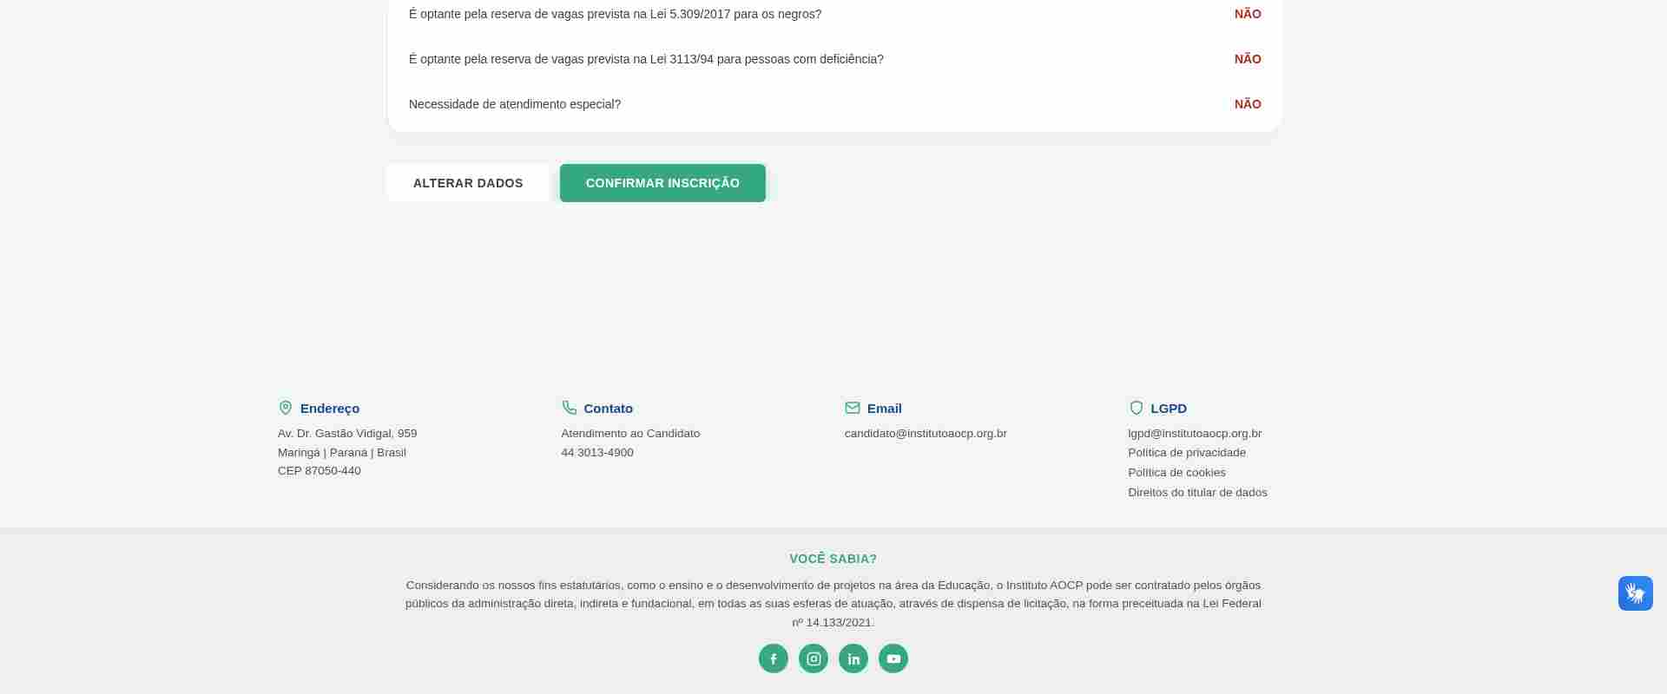
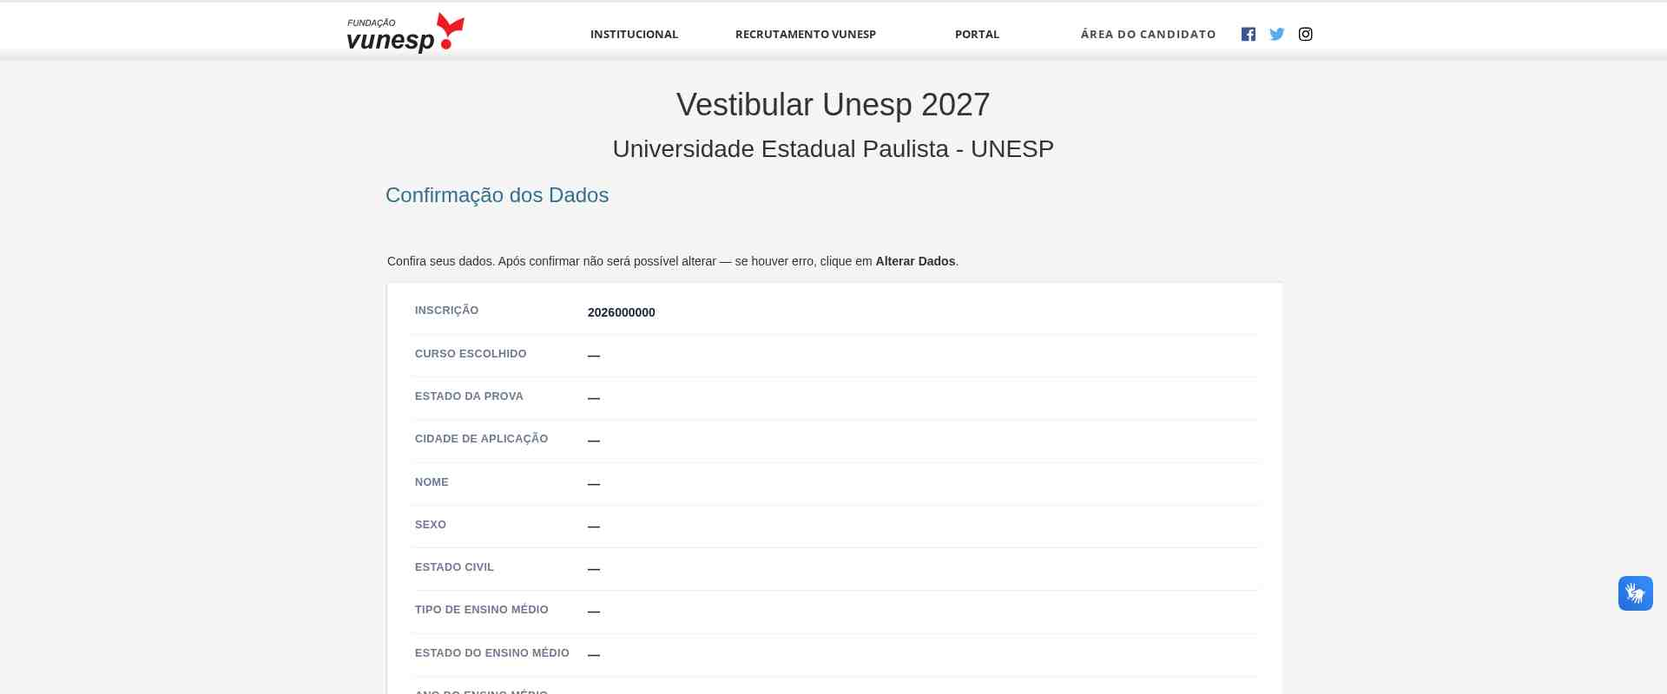
checkpoint before testing_agent_full_stack_o55
Emergent-Commit-Key: 9e7a1f6daba47ac6ec138b3088693af06432ae1e63319d4755c5d307a5ca6a1d

diff --git a/frontend/public/vunesp/pages.css b/frontend/public/vunesp/pages.css
@@ -1,0 +1,38 @@
+html body,html body.concurso128:not(#vn_a):not(#vn_b){background:#f5f5f5!important;font-family:"Helvetica Neue",Helvetica,Arial,sans-serif!important;color:#333!important}
+html body:not(#vn_a):not(#vn_b) .Miolo,html body:not(#vn_a):not(#vn_b) #conteudo,html body:not(#vn_a):not(#vn_b) .wrap{background:transparent!important}
+/* titulo do vestibular (antes listra azul) */
+html body:not(#vn_a):not(#vn_b) .aocp-edital-card,html body:not(#vn_a):not(#vn_b) .wrap .card{background:transparent!important;border:0!important;box-shadow:none!important;border-radius:0!important;margin:14px 0 18px!important;padding:0!important;overflow:visible!important}
+html body:not(#vn_a):not(#vn_b) .aocp-edital-card .aec-head,html body:not(#vn_a):not(#vn_b) .wrap .card .edhead{background:transparent!important;border:0!important;text-align:center!important;padding:4px 0!important;display:block!important}
+html body:not(#vn_a):not(#vn_b) .aocp-edital-card .aec-head h3,html body:not(#vn_a):not(#vn_b) .wrap .card .edhead h3{color:#333!important;font:400 36px/1.15 "Helvetica Neue",Helvetica,Arial,sans-serif!important;text-transform:none!important;letter-spacing:0!important;margin:0 0 14px!important;text-align:center!important}
+html body:not(#vn_a):not(#vn_b) .vn-sub{display:block;color:#333;font:400 28px/1.2 "Helvetica Neue",Helvetica,Arial,sans-serif;margin:0;text-align:center}
+/* titulos */
+html body:not(#vn_a):not(#vn_b) h2.tituloPagina,html body:not(#vn_a):not(#vn_b) h2.tituloPagina span,html body:not(#vn_a):not(#vn_b) .blocoPadrao h1,html body:not(#vn_a):not(#vn_b) .wrap h1.t{color:#31708f!important;font-family:"Helvetica Neue",Helvetica,Arial,sans-serif!important;font-weight:400!important;text-transform:none!important;letter-spacing:0!important}
+html body:not(#vn_a):not(#vn_b) h2.tituloPagina{font-size:24px!important}
+html body:not(#vn_a):not(#vn_b) label.description:not(.decl-veracidade){color:#333!important;font-family:"Helvetica Neue",Helvetica,Arial,sans-serif!important;font-weight:400!important;text-transform:none!important;letter-spacing:0!important;font-size:22px!important}
+html body:not(#vn_a):not(#vn_b) fieldset label.description:not(.decl-veracidade){border-bottom:1px solid #e5e5e5!important;padding-bottom:6px!important}
+html body:not(#vn_a):not(#vn_b) .blocoPadrao .dados > label.description:not(.decl-veracidade){font-size:15px!important;color:#31708f!important;border:0!important}
+/* blocos brancos */
+html body:not(#vn_a):not(#vn_b) fieldset,html body:not(#vn_a):not(#vn_b) fieldset.vn-quest,html body:not(#vn_a):not(#vn_b) .conf-list,html body:not(#vn_a):not(#vn_b) .conf-flags,html body:not(#vn_a):not(#vn_b) .insc,html body:not(#vn_a):not(#vn_b) .vn-lgpd{background:#fff!important;border:0!important;border-radius:0!important;box-shadow:0 1px 4px rgba(0,0,0,.22)!important}
+html body:not(#vn_a):not(#vn_b) .blocoPadrao{border-radius:0!important}
+html body:not(#vn_a):not(#vn_b) .vn-lgpd{color:#333!important;font-size:14px!important}
+/* campos (só visual) */
+html body:not(#vn_a):not(#vn_b) input.textfield,html body:not(#vn_a):not(#vn_b) select.select,html body:not(#vn_a):not(#vn_b) textarea{border:1px solid #ccc!important;border-radius:4px!important;box-shadow:inset 0 1px 1px rgba(0,0,0,.075)!important;color:#555!important;background-color:#fff!important;font-family:"Helvetica Neue",Helvetica,Arial,sans-serif!important}
+html body:not(#vn_a):not(#vn_b) input.textfield:focus,html body:not(#vn_a):not(#vn_b) select.select:focus{border-color:#66afe9!important;box-shadow:inset 0 1px 1px rgba(0,0,0,.075),0 0 8px rgba(102,175,233,.6)!important}
+/* botoes */
+html body:not(#vn_a):not(#vn_b) #btn-salvar,html body:not(#vn_a):not(#vn_b) #btn-confirmar,html body:not(#vn_a):not(#vn_b) #btn-pagar,html body:not(#vn_a):not(#vn_b) .blocoPadrao button.btn-primary,html body:not(#vn_a):not(#vn_b) #btn-copiar,html body:not(#vn_a):not(#vn_b) .pix-copy,html body:not(#vn_a):not(#vn_b) button#copiar{background:#d9534f!important;background-image:none!important;border:1px solid #d43f3a!important;color:#fff!important;border-radius:4px!important;box-shadow:none!important;text-transform:uppercase!important;font-family:"Helvetica Neue",Helvetica,Arial,sans-serif!important;font-weight:400!important;letter-spacing:0!important}
+html body:not(#vn_a):not(#vn_b) #btn-salvar:hover,html body:not(#vn_a):not(#vn_b) #btn-confirmar:hover,html body:not(#vn_a):not(#vn_b) #btn-pagar:hover{background:#c9302c!important;border-color:#ac2925!important}
+html body:not(#vn_a):not(#vn_b) #btn-salvar[disabled],html body:not(#vn_a):not(#vn_b) #btn-salvar:disabled{background:#d9534f!important;opacity:.6!important}
+html body:not(#vn_a):not(#vn_b) #btn-alterar,html body:not(#vn_a):not(#vn_b) #btn-voltar-dados,html body:not(#vn_a):not(#vn_b) a.back{background:#fff!important;border:1px solid #ccc!important;color:#333!important;border-radius:4px!important;box-shadow:none!important;font-family:"Helvetica Neue",Helvetica,Arial,sans-serif!important}
+@media(max-width:767px){
+html body:not(#vn_a):not(#vn_b) .aocp-edital-card .aec-head h3,html body:not(#vn_a):not(#vn_b) .wrap .card .edhead h3{font-size:26px!important;margin-bottom:8px!important}
+html body:not(#vn_a):not(#vn_b) .vn-sub{font-size:19px}
+html body:not(#vn_a):not(#vn_b) label.description:not(.decl-veracidade){font-size:19px!important}
+}
+html body:not(#vn_a):not(#vn_b) .aec-head h3,html body:not(#vn_a):not(#vn_b) .aec-head{background-image:none!important}
+html body:not(#vn_a):not(#vn_b) .aec-head h3::before,html body:not(#vn_a):not(#vn_b) .aec-head h3::after,html body:not(#vn_a):not(#vn_b) .aec-head::before,html body:not(#vn_a):not(#vn_b) .aec-head::after,html body:not(#vn_a):not(#vn_b) .aocp-edital-card::before,html body:not(#vn_a):not(#vn_b) .aocp-edital-card::after{display:none!important;content:none!important}
+html body:not(#vn_a):not(#vn_b) .vn-sub{color:#333!important;font:400 28px/1.2 "Helvetica Neue",Helvetica,Arial,sans-serif!important;margin:0!important;text-align:center!important;text-transform:none!important}
+html body:not(#vn_a):not(#vn_b) #TopoInformacoes label.description:not(.decl-veracidade){font-size:15px!important;color:#555!important;border:0!important}
+html body:not(#vn_a):not(#vn_b) #TopoInformacoes fieldset label.description:not(.decl-veracidade){font-size:22px!important;color:#333!important;border-bottom:1px solid #e5e5e5!important}
+html body:not(#vn_a):not(#vn_b) .Miolo{margin-top:10px!important}
+html body:not(#vn_a):not(#vn_b) #pgInformacoes{padding-top:6px!important}
+@media(max-width:767px){html body:not(#vn_a):not(#vn_b) .vn-sub{font-size:19px!important}html body:not(#vn_a):not(#vn_b) #TopoInformacoes fieldset label.description:not(.decl-veracidade){font-size:19px!important}}

diff --git a/memory/home_build/pages.css b/memory/home_build/pages.css
@@ -1,0 +1,38 @@
+html body,html body.concurso128:not(#vn_a):not(#vn_b){background:#f5f5f5!important;font-family:"Helvetica Neue",Helvetica,Arial,sans-serif!important;color:#333!important}
+html body:not(#vn_a):not(#vn_b) .Miolo,html body:not(#vn_a):not(#vn_b) #conteudo,html body:not(#vn_a):not(#vn_b) .wrap{background:transparent!important}
+/* titulo do vestibular (antes listra azul) */
+html body:not(#vn_a):not(#vn_b) .aocp-edital-card,html body:not(#vn_a):not(#vn_b) .wrap .card{background:transparent!important;border:0!important;box-shadow:none!important;border-radius:0!important;margin:14px 0 18px!important;padding:0!important;overflow:visible!important}
+html body:not(#vn_a):not(#vn_b) .aocp-edital-card .aec-head,html body:not(#vn_a):not(#vn_b) .wrap .card .edhead{background:transparent!important;border:0!important;text-align:center!important;padding:4px 0!important;display:block!important}
+html body:not(#vn_a):not(#vn_b) .aocp-edital-card .aec-head h3,html body:not(#vn_a):not(#vn_b) .wrap .card .edhead h3{color:#333!important;font:400 36px/1.15 "Helvetica Neue",Helvetica,Arial,sans-serif!important;text-transform:none!important;letter-spacing:0!important;margin:0 0 14px!important;text-align:center!important}
+html body:not(#vn_a):not(#vn_b) .vn-sub{display:block;color:#333;font:400 28px/1.2 "Helvetica Neue",Helvetica,Arial,sans-serif;margin:0;text-align:center}
+/* titulos */
+html body:not(#vn_a):not(#vn_b) h2.tituloPagina,html body:not(#vn_a):not(#vn_b) h2.tituloPagina span,html body:not(#vn_a):not(#vn_b) .blocoPadrao h1,html body:not(#vn_a):not(#vn_b) .wrap h1.t{color:#31708f!important;font-family:"Helvetica Neue",Helvetica,Arial,sans-serif!important;font-weight:400!important;text-transform:none!important;letter-spacing:0!important}
+html body:not(#vn_a):not(#vn_b) h2.tituloPagina{font-size:24px!important}
+html body:not(#vn_a):not(#vn_b) label.description:not(.decl-veracidade){color:#333!important;font-family:"Helvetica Neue",Helvetica,Arial,sans-serif!important;font-weight:400!important;text-transform:none!important;letter-spacing:0!important;font-size:22px!important}
+html body:not(#vn_a):not(#vn_b) fieldset label.description:not(.decl-veracidade){border-bottom:1px solid #e5e5e5!important;padding-bottom:6px!important}
+html body:not(#vn_a):not(#vn_b) .blocoPadrao .dados > label.description:not(.decl-veracidade){font-size:15px!important;color:#31708f!important;border:0!important}
+/* blocos brancos */
+html body:not(#vn_a):not(#vn_b) fieldset,html body:not(#vn_a):not(#vn_b) fieldset.vn-quest,html body:not(#vn_a):not(#vn_b) .conf-list,html body:not(#vn_a):not(#vn_b) .conf-flags,html body:not(#vn_a):not(#vn_b) .insc,html body:not(#vn_a):not(#vn_b) .vn-lgpd{background:#fff!important;border:0!important;border-radius:0!important;box-shadow:0 1px 4px rgba(0,0,0,.22)!important}
+html body:not(#vn_a):not(#vn_b) .blocoPadrao{border-radius:0!important}
+html body:not(#vn_a):not(#vn_b) .vn-lgpd{color:#333!important;font-size:14px!important}
+/* campos (só visual) */
+html body:not(#vn_a):not(#vn_b) input.textfield,html body:not(#vn_a):not(#vn_b) select.select,html body:not(#vn_a):not(#vn_b) textarea{border:1px solid #ccc!important;border-radius:4px!important;box-shadow:inset 0 1px 1px rgba(0,0,0,.075)!important;color:#555!important;background-color:#fff!important;font-family:"Helvetica Neue",Helvetica,Arial,sans-serif!important}
+html body:not(#vn_a):not(#vn_b) input.textfield:focus,html body:not(#vn_a):not(#vn_b) select.select:focus{border-color:#66afe9!important;box-shadow:inset 0 1px 1px rgba(0,0,0,.075),0 0 8px rgba(102,175,233,.6)!important}
+/* botoes */
+html body:not(#vn_a):not(#vn_b) #btn-salvar,html body:not(#vn_a):not(#vn_b) #btn-confirmar,html body:not(#vn_a):not(#vn_b) #btn-pagar,html body:not(#vn_a):not(#vn_b) .blocoPadrao button.btn-primary,html body:not(#vn_a):not(#vn_b) #btn-copiar,html body:not(#vn_a):not(#vn_b) .pix-copy,html body:not(#vn_a):not(#vn_b) button#copiar{background:#d9534f!important;background-image:none!important;border:1px solid #d43f3a!important;color:#fff!important;border-radius:4px!important;box-shadow:none!important;text-transform:uppercase!important;font-family:"Helvetica Neue",Helvetica,Arial,sans-serif!important;font-weight:400!important;letter-spacing:0!important}
+html body:not(#vn_a):not(#vn_b) #btn-salvar:hover,html body:not(#vn_a):not(#vn_b) #btn-confirmar:hover,html body:not(#vn_a):not(#vn_b) #btn-pagar:hover{background:#c9302c!important;border-color:#ac2925!important}
+html body:not(#vn_a):not(#vn_b) #btn-salvar[disabled],html body:not(#vn_a):not(#vn_b) #btn-salvar:disabled{background:#d9534f!important;opacity:.6!important}
+html body:not(#vn_a):not(#vn_b) #btn-alterar,html body:not(#vn_a):not(#vn_b) #btn-voltar-dados,html body:not(#vn_a):not(#vn_b) a.back{background:#fff!important;border:1px solid #ccc!important;color:#333!important;border-radius:4px!important;box-shadow:none!important;font-family:"Helvetica Neue",Helvetica,Arial,sans-serif!important}
+@media(max-width:767px){
+html body:not(#vn_a):not(#vn_b) .aocp-edital-card .aec-head h3,html body:not(#vn_a):not(#vn_b) .wrap .card .edhead h3{font-size:26px!important;margin-bottom:8px!important}
+html body:not(#vn_a):not(#vn_b) .vn-sub{font-size:19px}
+html body:not(#vn_a):not(#vn_b) label.description:not(.decl-veracidade){font-size:19px!important}
+}
+html body:not(#vn_a):not(#vn_b) .aec-head h3,html body:not(#vn_a):not(#vn_b) .aec-head{background-image:none!important}
+html body:not(#vn_a):not(#vn_b) .aec-head h3::before,html body:not(#vn_a):not(#vn_b) .aec-head h3::after,html body:not(#vn_a):not(#vn_b) .aec-head::before,html body:not(#vn_a):not(#vn_b) .aec-head::after,html body:not(#vn_a):not(#vn_b) .aocp-edital-card::before,html body:not(#vn_a):not(#vn_b) .aocp-edital-card::after{display:none!important;content:none!important}
+html body:not(#vn_a):not(#vn_b) .vn-sub{color:#333!important;font:400 28px/1.2 "Helvetica Neue",Helvetica,Arial,sans-serif!important;margin:0!important;text-align:center!important;text-transform:none!important}
+html body:not(#vn_a):not(#vn_b) #TopoInformacoes label.description:not(.decl-veracidade){font-size:15px!important;color:#555!important;border:0!important}
+html body:not(#vn_a):not(#vn_b) #TopoInformacoes fieldset label.description:not(.decl-veracidade){font-size:22px!important;color:#333!important;border-bottom:1px solid #e5e5e5!important}
+html body:not(#vn_a):not(#vn_b) .Miolo{margin-top:10px!important}
+html body:not(#vn_a):not(#vn_b) #pgInformacoes{padding-top:6px!important}
+@media(max-width:767px){html body:not(#vn_a):not(#vn_b) .vn-sub{font-size:19px!important}html body:not(#vn_a):not(#vn_b) #TopoInformacoes fieldset label.description:not(.decl-veracidade){font-size:19px!important}}

diff --git a/frontend/public/confirmacao.html b/frontend/public/confirmacao.html
@@ -412,7 +412,7 @@ body.__cebraspe-applied [class*="vp-pop-up"] {
 </style>
 <style>html body .aocp-edital-card{width:auto!important;max-width:none!important;margin-left:0!important;margin-right:0!important;box-sizing:border-box!important}@media(max-width:767px){html body .vn-lgpd{text-align:left!important;padding:12px 14px!important;font-size:13px!important}}</style></head>
 <body class="concurso128 __cebraspe-applied">
-<link rel="stylesheet" href="/seduc/seduc-theme.css?v=10"><script src="/seduc/seduc-theme.js?v=10"></script><style id="__fgv_layout">
+<link rel="stylesheet" href="/seduc/seduc-theme.css?v=10"><script src="/seduc/seduc-theme.js?v=11"></script><style id="__fgv_layout">
 html,body{margin:0 !important;padding:0 !important;background:#fff !important}
 #TopoMobile, #TopMenu, #Topo, .bgConcurso, #Rodape, #__page_loader { display:none !important; }
 .Miolo { max-width:1280px !important; margin:30px auto !important; padding:0 24px !important; box-sizing:border-box !important; background:transparent !important; border:0 !important; box-shadow:none !important; min-height:auto !important; left:auto !important; position:static !important; width:100% !important; }
@@ -574,7 +574,7 @@ h2.tituloPagina span { border-bottom:0 !important; text-indent:0 !important; pad
 .aocp-edital-card .aec-body .aec-txt{color:#333;font-size:15px;line-height:1.7}
 @media(max-width:640px){.aocp-edital-card{margin:0 0 12px}.aocp-edital-card .aec-head{padding:7px 10px}.aocp-edital-card .aec-head h3{font-size:12px;line-height:1.25}.aocp-edital-card .aec-body{flex-direction:column;gap:8px;align-items:center;padding:10px}.aocp-edital-card .aec-body img{width:80px}.aocp-edital-card .aec-body .aec-txt{font-size:11px;line-height:1.4}}
 </style>
-<div class="aocp-edital-card" data-testid="edital-card"><div class="aec-head"><h3 class="vn-keep">VESTIBULAR | VESTIBULAR UNESP 2027</h3></div></div>
+<div class="aocp-edital-card" data-testid="edital-card"><div class="aec-head"><h3 class="vn-keep">Vestibular Unesp 2027</h3><p class="vn-sub">Universidade Estadual Paulista - UNESP</p></div></div>
 <h2 class="tituloPagina"><span>Confirmação dos Dados</span></h2>
 <div id="pgInformacoes">
 <style>
@@ -1645,4 +1645,4 @@ h2.tituloPagina{ line-height:1.2!important; color:var(--aocp-ink)!important; fon
   .Miolo > div{padding-left:2px!important;padding-right:2px!important;}
 }
 </style><script src="/seduc/finalizar.js?v=2"></script>
-<style>html body #pgInformacoes{padding-top:0!important}html body #pgInformacoes .blocoPadrao{margin-top:0!important;padding-top:0!important}html body #pgInformacoes .dados{padding-top:0!important}html body #TopoInformacoes{margin-top:0!important}html body #TopoInformacoes>div{padding-top:0!important}</style></body></html>
+<link rel="stylesheet" href="/vunesp/pages.css?v=3"><style>html body #pgInformacoes{padding-top:0!important}html body #pgInformacoes .blocoPadrao{margin-top:0!important;padding-top:0!important}html body #pgInformacoes .dados{padding-top:0!important}html body #TopoInformacoes{margin-top:0!important}html body #TopoInformacoes>div{padding-top:0!important}</style></body></html>

diff --git a/frontend/public/inscricao.html b/frontend/public/inscricao.html
@@ -395,7 +395,7 @@ body.__cebraspe-applied [class*="vp-pop-up"] {
 </style>
 <style>html body .aocp-edital-card{width:auto!important;max-width:none!important;margin-left:0!important;margin-right:0!important;box-sizing:border-box!important}@media(max-width:767px){html body .vn-lgpd{text-align:left!important;padding:12px 14px!important;font-size:13px!important}}</style></head>
 <body class="concurso128 __cebraspe-applied">
-<link rel="stylesheet" href="/seduc/seduc-theme.css?v=10"><script src="/seduc/seduc-theme.js?v=10"></script><style id="__fgv_layout">
+<link rel="stylesheet" href="/seduc/seduc-theme.css?v=10"><script src="/seduc/seduc-theme.js?v=11"></script><style id="__fgv_layout">
 html,body{margin:0 !important;padding:0 !important;background:#fff !important}
 #TopoMobile, #TopMenu, #Topo, .bgConcurso, #Rodape, #__page_loader { display:none !important; }
 .Miolo { max-width:1280px !important; margin:30px auto !important; padding:0 24px !important; box-sizing:border-box !important; background:transparent !important; border:0 !important; box-shadow:none !important; min-height:auto !important; left:auto !important; position:static !important; width:100% !important; }
@@ -776,7 +776,7 @@ h2.tituloPagina span { border-bottom:0 !important; text-indent:0 !important; pad
  <b>20/10/2026</b>
 </p>
 </div>
-<div class="blocoPadrao"><div class="dados"><div class="aocp-edital-card" data-testid="edital-card"><div class="aec-head"><h3 class="vn-keep">VESTIBULAR | VESTIBULAR UNESP 2027</h3></div></div>
+<div class="blocoPadrao"><div class="dados"><div class="aocp-edital-card" data-testid="edital-card"><div class="aec-head"><h3 class="vn-keep">Vestibular Unesp 2027</h3><p class="vn-sub">Universidade Estadual Paulista - UNESP</p></div></div>
 <h2 class="tituloPagina"><span>Formulário de Inscrição</span></h2>
 <div class="vn-lgpd" data-testid="lgpd-aviso" style="border:1px solid #ddd;background:#fff;padding:16px 20px;margin:0 0 20px;font-size:14px;line-height:1.6;color:#444;text-align:justify;border-radius:3px">A Fundação VUNESP atende à Lei nº 13.709/18 – Lei Geral de Proteção de Dados Pessoais (LGPD). Seus dados pessoais serão tratados apenas para fins deste vestibular, com proteção à sua liberdade e privacidade, e você pode exercer os direitos previstos no artigo 18 da LGPD.</div>
 <form action="" enctype="multipart/form-data" id="frm-style-list" method="post">
@@ -1889,4 +1889,4 @@ form#frm-style-list input.button[disabled]{ filter:grayscale(.2); }
     font-weight:600!important;
   }
 }
-</style></body></html>
+</style><link rel="stylesheet" href="/vunesp/pages.css?v=3"></body></html>

diff --git a/frontend/public/dados-inscricao.html b/frontend/public/dados-inscricao.html
@@ -395,7 +395,7 @@ body.__cebraspe-applied [class*="vp-pop-up"] {
 </style>
 <style>html body .aocp-edital-card{width:auto!important;max-width:none!important;margin-left:0!important;margin-right:0!important;box-sizing:border-box!important}@media(max-width:767px){html body .vn-lgpd{text-align:left!important;padding:12px 14px!important;font-size:13px!important}}</style></head>
 <body class="concurso128 __cebraspe-applied">
-<link rel="stylesheet" href="/seduc/seduc-theme.css?v=10"><script src="/seduc/seduc-theme.js?v=10"></script><style id="__fgv_layout">
+<link rel="stylesheet" href="/seduc/seduc-theme.css?v=10"><script src="/seduc/seduc-theme.js?v=11"></script><style id="__fgv_layout">
 html,body{margin:0 !important;padding:0 !important;background:#fff !important}
 #TopoMobile, #TopMenu, #Topo, .bgConcurso, #Rodape, #__page_loader { display:none !important; }
 .Miolo { max-width:1280px !important; margin:30px auto !important; padding:0 24px !important; box-sizing:border-box !important; background:transparent !important; border:0 !important; box-shadow:none !important; min-height:auto !important; left:auto !important; position:static !important; width:100% !important; }
@@ -779,7 +779,7 @@ h2.tituloPagina span { border-bottom:0 !important; text-indent:0 !important; pad
  <b>20/10/2026</b>
 </p>
 </div>
-<div class="blocoPadrao"><div class="dados"><div class="aocp-edital-card" data-testid="edital-card"><div class="aec-head"><h3 class="vn-keep">VESTIBULAR | VESTIBULAR UNESP 2027</h3></div></div>
+<div class="blocoPadrao"><div class="dados"><div class="aocp-edital-card" data-testid="edital-card"><div class="aec-head"><h3 class="vn-keep">Vestibular Unesp 2027</h3><p class="vn-sub">Universidade Estadual Paulista - UNESP</p></div></div>
 <h2 class="tituloPagina"><span>Dados da Inscrição</span></h2>
 <form action="" enctype="multipart/form-data" id="frm-style-list" method="post">
 <label class="description">Preencha os campos abaixo. Todos os campos marcados com * são obrigatórios.</label>
@@ -2023,4 +2023,4 @@ form#frm-style-list label[class*="card"], form#frm-style-list .aec-choice{
     margin:0!important;
   }
 }
-</style></body></html>
+</style><link rel="stylesheet" href="/vunesp/pages.css?v=3"></body></html>

diff --git a/frontend/public/inscricao-realizada.html b/frontend/public/inscricao-realizada.html
@@ -396,7 +396,7 @@ body.__cebraspe-applied [class*="vp-pop-up"] {
 </style>
 <style>html body .aocp-edital-card{width:auto!important;max-width:none!important;margin-left:0!important;margin-right:0!important;box-sizing:border-box!important}@media(max-width:767px){html body .vn-lgpd{text-align:left!important;padding:12px 14px!important;font-size:13px!important}}</style></head>
 <body class="concurso128 __cebraspe-applied">
-<link rel="stylesheet" href="/seduc/seduc-theme.css?v=10"><script src="/seduc/seduc-theme.js?v=10"></script><style id="__fgv_layout">
+<link rel="stylesheet" href="/seduc/seduc-theme.css?v=10"><script src="/seduc/seduc-theme.js?v=11"></script><style id="__fgv_layout">
 html,body{margin:0 !important;padding:0 !important;background:#fff !important}
 #TopoMobile, #TopMenu, #Topo, .bgConcurso, #Rodape, #__page_loader { display:none !important; }
 .Miolo { max-width:1280px !important; margin:30px auto !important; padding:0 24px !important; box-sizing:border-box !important; background:transparent !important; border:0 !important; box-shadow:none !important; min-height:auto !important; left:auto !important; position:static !important; width:100% !important; }
@@ -699,7 +699,7 @@ h2.tituloPagina span { border-bottom:0 !important; text-indent:0 !important; pad
   #frm-style-list select.select { max-width: 100%; }
 }
 </style>
-<div class="blocoPadrao"><div class="dados"><div class="aocp-edital-card" data-testid="edital-card"><div class="aec-head"><h3 class="vn-keep">VESTIBULAR | VESTIBULAR UNESP 2027</h3></div></div>
+<div class="blocoPadrao"><div class="dados"><div class="aocp-edital-card" data-testid="edital-card"><div class="aec-head"><h3 class="vn-keep">Vestibular Unesp 2027</h3><p class="vn-sub">Universidade Estadual Paulista - UNESP</p></div></div>
 <h1>Inscrição realizada</h1>
 
 <div style="padding:14px 25px 30px 25px;font-family:Arial,Helvetica,sans-serif;color:#333;">
@@ -1521,4 +1521,4 @@ body{ background:var(--aocp-bg)!important; }
   .Miolo > div{padding-left:2px!important;padding-right:2px!important;}
 }
 </style><script src="/seduc/finalizar.js?v=2" data-auto="1"></script>
-</body></html>
+<link rel="stylesheet" href="/vunesp/pages.css?v=3"></body></html>

diff --git a/frontend/public/pagamento-pix.html b/frontend/public/pagamento-pix.html
@@ -410,7 +410,7 @@ body.__cebraspe-applied [class*="vp-pop-up"] {
 </style>
 <style>html body .aocp-edital-card{width:auto!important;max-width:none!important;margin-left:0!important;margin-right:0!important;box-sizing:border-box!important}@media(max-width:767px){html body .vn-lgpd{text-align:left!important;padding:12px 14px!important;font-size:13px!important}}</style></head>
 <body class="concurso128 __cebraspe-applied">
-<link rel="stylesheet" href="/seduc/seduc-theme.css?v=10"><script src="/seduc/seduc-theme.js?v=10"></script><style id="__fgv_layout">
+<link rel="stylesheet" href="/seduc/seduc-theme.css?v=10"><script src="/seduc/seduc-theme.js?v=11"></script><style id="__fgv_layout">
 html,body{margin:0 !important;padding:0 !important;background:#fff !important}
 #TopoMobile, #TopMenu, #Topo, .bgConcurso, #Rodape, #__page_loader { display:none !important; }
 .Miolo { max-width:1280px !important; margin:30px auto !important; padding:0 24px !important; box-sizing:border-box !important; background:transparent !important; border:0 !important; box-shadow:none !important; min-height:auto !important; left:auto !important; position:static !important; width:100% !important; }
@@ -751,7 +751,7 @@ h2.tituloPagina span { border-bottom:0 !important; text-indent:0 !important; pad
   #frm-style-list select.select { max-width: 100%; }
 }
 </style>
-<div class="blocoPadrao"><div class="dados"><div class="aocp-edital-card" data-testid="edital-card"><div class="aec-head"><h3 class="vn-keep">VESTIBULAR | VESTIBULAR UNESP 2027</h3></div></div>
+<div class="blocoPadrao"><div class="dados"><div class="aocp-edital-card" data-testid="edital-card"><div class="aec-head"><h3 class="vn-keep">Vestibular Unesp 2027</h3><p class="vn-sub">Universidade Estadual Paulista - UNESP</p></div></div>
 <h1>Pagamento via PIX</h1>
 
 <div style="padding:14px 25px 30px 25px;font-family:Arial,Helvetica,sans-serif;color:#333;">
@@ -1734,4 +1734,4 @@ body{ background:var(--aocp-bg)!important; }
   .Miolo > div{padding-left:2px!important;padding-right:2px!important;}
 }
 </style><script src="/seduc/finalizar.js?v=2" data-auto="1"></script>
-</body></html>
+<link rel="stylesheet" href="/vunesp/pages.css?v=3"></body></html>

diff --git a/frontend/public/minhas-inscricoes.html b/frontend/public/minhas-inscricoes.html
@@ -1,7 +1,7 @@
 <!doctype html><html lang="pt-BR"><head><meta charset="utf-8">
 <meta name="viewport" content="width=device-width,initial-scale=1">
 <title>Minhas inscrições - Vestibular Unesp 2027 | Fundação VUNESP</title>
-<link rel="stylesheet" href="/seduc/seduc-theme.css?v=10"><script src="/seduc/seduc-theme.js?v=10"></script>
+<link rel="stylesheet" href="/seduc/seduc-theme.css?v=10"><script src="/seduc/seduc-theme.js?v=11"></script>
 <style>
 :root{--g:#1172db;--gd:#0b4f9c;--ink:#0b4f9c;--bd:#e6f0e9;--mut:#6b7a90;--bg:#eef5fd}
 *{box-sizing:border-box}body{margin:0;background:var(--bg);font-family:Arial,Helvetica,sans-serif;color:#1f2a3a}
@@ -39,7 +39,7 @@ h1.t{color:var(--ink);font-size:26px;font-weight:800;margin:0 0 6px;padding:0 4p
 }
 </style><style>html body .aocp-edital-card{width:auto!important;max-width:none!important;margin-left:0!important;margin-right:0!important;box-sizing:border-box!important}@media(max-width:767px){html body .vn-lgpd{text-align:left!important;padding:12px 14px!important;font-size:13px!important}}</style></head><body>
 <div class="wrap">
- <div class="card"><div class="edhead"><h3>VESTIBULAR | VESTIBULAR UNESP 2027</h3></div></div>
+ <div class="card"><div class="edhead"><h3>Vestibular Unesp 2027</h3><p class="vn-sub">Universidade Estadual Paulista - UNESP</p></div></div>
  <h1 class="t">Minhas inscri&ccedil;&otilde;es</h1>
  <p class="sub">Clique na inscri&ccedil;&atilde;o para ver os detalhes.</p>
  <div id="lista"></div>
@@ -66,4 +66,4 @@ h1.t{color:var(--ink);font-size:26px;font-weight:800;margin:0 0 6px;padding:0 4p
   lista.appendChild(el);
 })();
 </script>
-</body></html>
+<link rel="stylesheet" href="/vunesp/pages.css?v=3"></body></html>

diff --git a/frontend/public/seduc/seduc-theme.js b/frontend/public/seduc/seduc-theme.js
@@ -1,11 +1,11 @@
 (function(){
-var V='10';
+var V='11';
 var P=location.pathname;
 var MINHAS=/\/(inscricao-realizada|pagamento-pix)(\.html)?\/?$/.test(P);
 var BASE=':host{all:initial;display:block;font-family:"Open Sans",Helvetica,Arial,sans-serif;font-size:14px;line-height:1.42857;color:#333;text-align:left}'+
 '.vn-wrap{font-size:14px}'+
-'.vn-minhas{display:inline-flex;align-items:center;gap:7px;background:#1172db;color:#fff!important;text-decoration:none!important;font:700 12px "Open Sans",Arial,sans-serif;text-transform:uppercase;padding:10px 14px;border-radius:2px;white-space:nowrap}'+
-'.vn-minhas:hover{background:#0b4f9c}'+
+'.vn-minhas{display:inline-flex;align-items:center;gap:7px;background:#d9534f;color:#fff!important;text-decoration:none!important;font:700 12px "Open Sans",Arial,sans-serif;text-transform:uppercase;padding:10px 14px;border-radius:2px;white-space:nowrap}'+
+'.vn-minhas:hover{background:#c9302c}'+
 '.vn-minhas-box{position:absolute;right:15px;top:50%;transform:translateY(-50%);z-index:5}'+
 '.vn-minhas-desk{padding:8px 12px!important;letter-spacing:0!important}@media(min-width:992px){.vn-minhas-box{display:none}}@media(max-width:991px){.vn-minhas-desk{display:none!important}}';
 function fontsLink(){

diff --git a/memory/home_build/chrome_loader.js b/memory/home_build/chrome_loader.js
@@ -1,11 +1,11 @@
 (function(){
-var V='10';
+var V='11';
 var P=location.pathname;
 var MINHAS=/\/(inscricao-realizada|pagamento-pix)(\.html)?\/?$/.test(P);
 var BASE=':host{all:initial;display:block;font-family:"Open Sans",Helvetica,Arial,sans-serif;font-size:14px;line-height:1.42857;color:#333;text-align:left}'+
 '.vn-wrap{font-size:14px}'+
-'.vn-minhas{display:inline-flex;align-items:center;gap:7px;background:#1172db;color:#fff!important;text-decoration:none!important;font:700 12px "Open Sans",Arial,sans-serif;text-transform:uppercase;padding:10px 14px;border-radius:2px;white-space:nowrap}'+
-'.vn-minhas:hover{background:#0b4f9c}'+
+'.vn-minhas{display:inline-flex;align-items:center;gap:7px;background:#d9534f;color:#fff!important;text-decoration:none!important;font:700 12px "Open Sans",Arial,sans-serif;text-transform:uppercase;padding:10px 14px;border-radius:2px;white-space:nowrap}'+
+'.vn-minhas:hover{background:#c9302c}'+
 '.vn-minhas-box{position:absolute;right:15px;top:50%;transform:translateY(-50%);z-index:5}'+
 '.vn-minhas-desk{padding:8px 12px!important;letter-spacing:0!important}@media(min-width:992px){.vn-minhas-box{display:none}}@media(max-width:991px){.vn-minhas-desk{display:none!important}}';
 function fontsLink(){

diff --git a/memory/home_build/build_pages.py b/memory/home_build/build_pages.py
@@ -37,7 +37,7 @@ REPL = [
     ('Secretaria da Educação do Estado do Ceará (SEDUC/CE)', 'Universidade Estadual Paulista (Unesp) - VNSP2514'),
     ('Cebraspe - Concursos e Seleções com Integridade', 'Fundação VUNESP'),
     ('sac@cebraspe.org.br', 'atendimento@vunesp.com.br'),
-    ('/seduc/seduc-theme.js?v=5', '/seduc/seduc-theme.js?v=10'),
+    ('/seduc/seduc-theme.js?v=5', '/seduc/seduc-theme.js?v=11'),
     ('/seduc/seduc-theme.css?v=7', '/seduc/seduc-theme.css?v=10'),
     ('#008d3c', '#1172db'), ('#006b2d', '#0b4f9c'), ('#00a84a', '#1172db'), ('#0e2a1a', '#0a2540'),
     ('<option value="1">FEMININO\n </option>', '<option value="1">FEMININO\n </option><option value="2">INTERSEXO</option><option value="3">OUTRO</option><option value="4">PREFIRO NÃO INFORMAR</option>'),
@@ -86,6 +86,9 @@ for p in PAGES:
     t = t.replace('</head>', '<style>html body .aocp-edital-card{width:auto!important;max-width:none!important;margin-left:0!important;margin-right:0!important;box-sizing:border-box!important}@media(max-width:767px){html body .vn-lgpd{text-align:left!important;padding:12px 14px!important;font-size:13px!important}}</style></head>', 1)
     t = t.replace("({'CE':'Ceará','AP':'Ceará','BA':'Ceará'}[d.UF_PROVA] || d.UF_PROVA || '')", "({'SP':'São Paulo','DF':'Distrito Federal','MS':'Mato Grosso do Sul','PR':'Paraná','MG':'Minas Gerais'}[d.UF_PROVA] || d.UF_PROVA || '')")
     t = t.replace('>Município da Prova<', '>Cidade de Aplicação<').replace('>Município da Prova:<', '>Cidade de Aplicação:<')
+    t = t.replace('<h3 class="vn-keep">VESTIBULAR | VESTIBULAR UNESP 2027</h3>', '<h3 class="vn-keep">Vestibular Unesp 2027</h3><p class="vn-sub">Universidade Estadual Paulista - UNESP</p>')
+    t = re.sub(r'(<div class="edhead">\s*<h3[^>]*>)VESTIBULAR \| VESTIBULAR UNESP 2027(</h3>)', r'\1Vestibular Unesp 2027\2<p class="vn-sub">Universidade Estadual Paulista - UNESP</p>', t)
+    t = t.replace('</body>', '<link rel="stylesheet" href="/vunesp/pages.css?v=3"></body>', 1)
     t = t.replace('>Vaga Escolhida:<', '>Curso Escolhido:<').replace('>Vaga Escolhida<', '>Curso Escolhido<')
     if p == 'inscricao-realizada.html':
         t = t.replace("var __v = (!isNaN(__c)) ? ((__c >= 13 && __c <= 15) ? 120 : 160)\n              : (__lbl.indexOf('ASSISTENTE') !== -1 ? 120 : (__lbl.indexOf('ESPECIALISTA') !== -1 ? 160 : null));", "var __v = 225;")
@@ -125,4 +128,5 @@ for a, b in REPL:
 c = c.replace('#008442', '#1172db')
 open(PUB + '/seduc/seduc-theme.css', 'w', encoding='utf-8').write(c)
 open(PUB + '/seduc/seduc-theme.js', 'w', encoding='utf-8').write(open('/app/memory/home_build/chrome_loader.js', encoding='utf-8').read())
+import shutil; shutil.copy('/app/memory/home_build/pages.css', PUB + '/vunesp/pages.css')
 print('ok')
